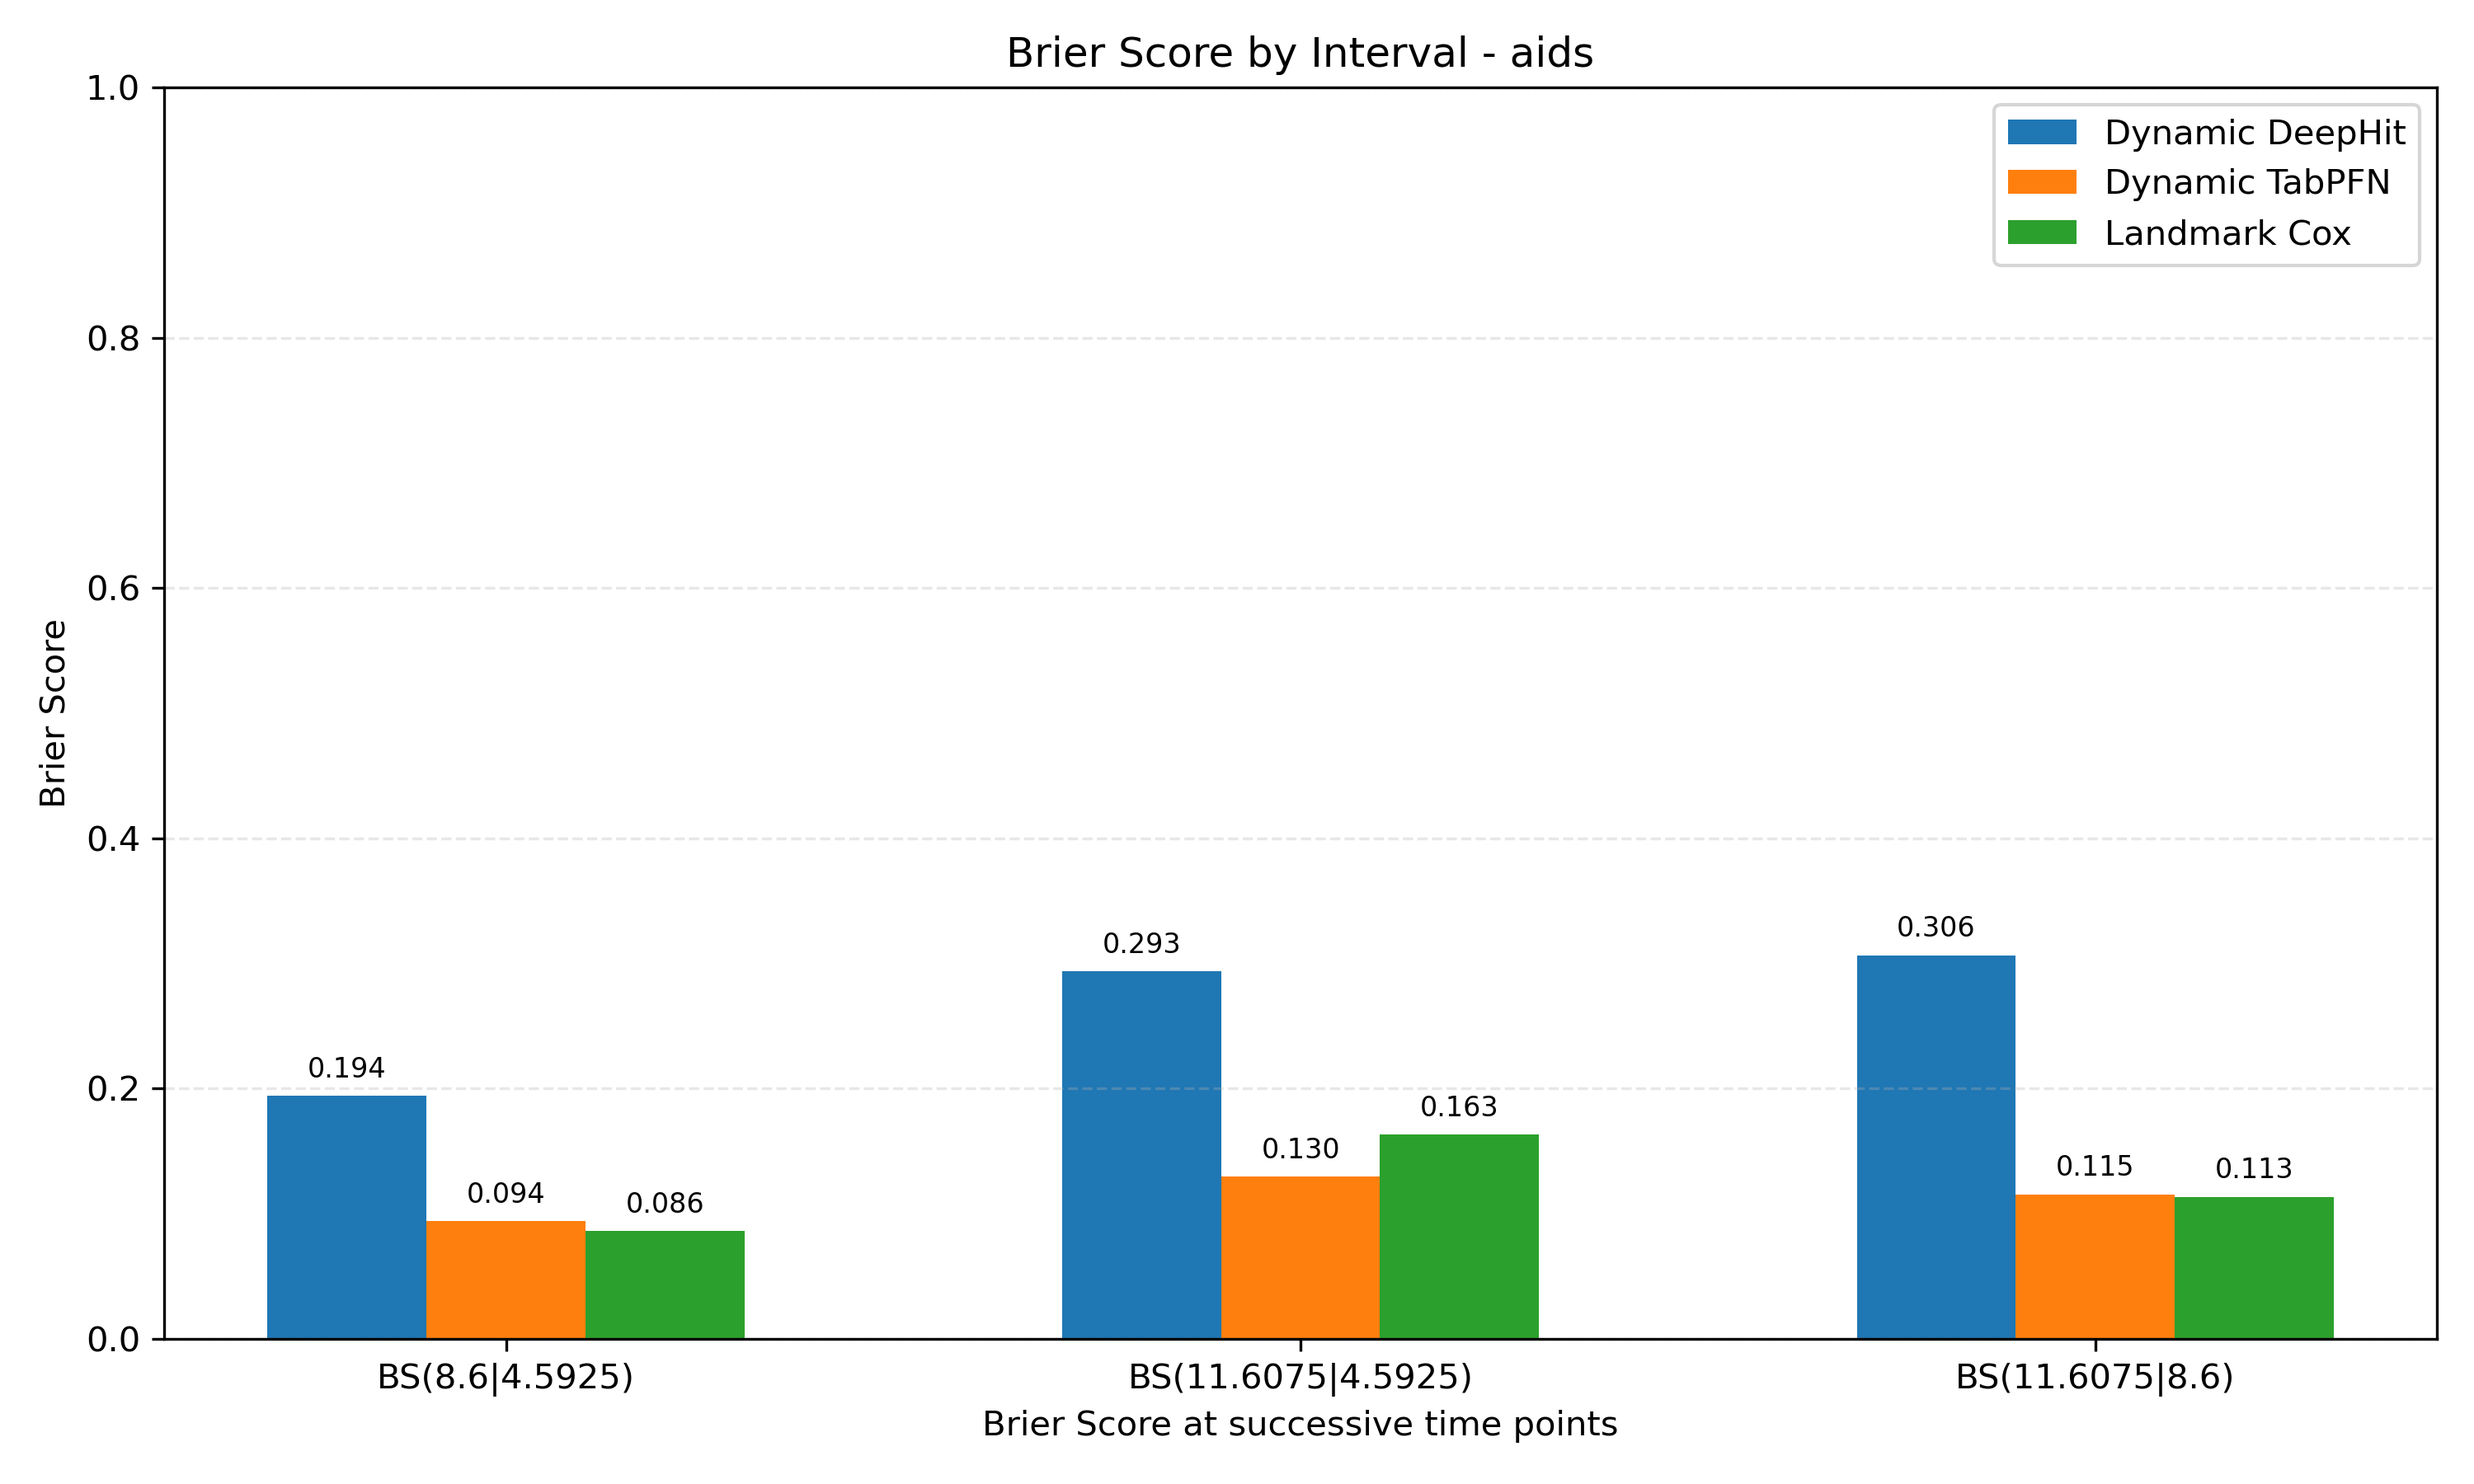
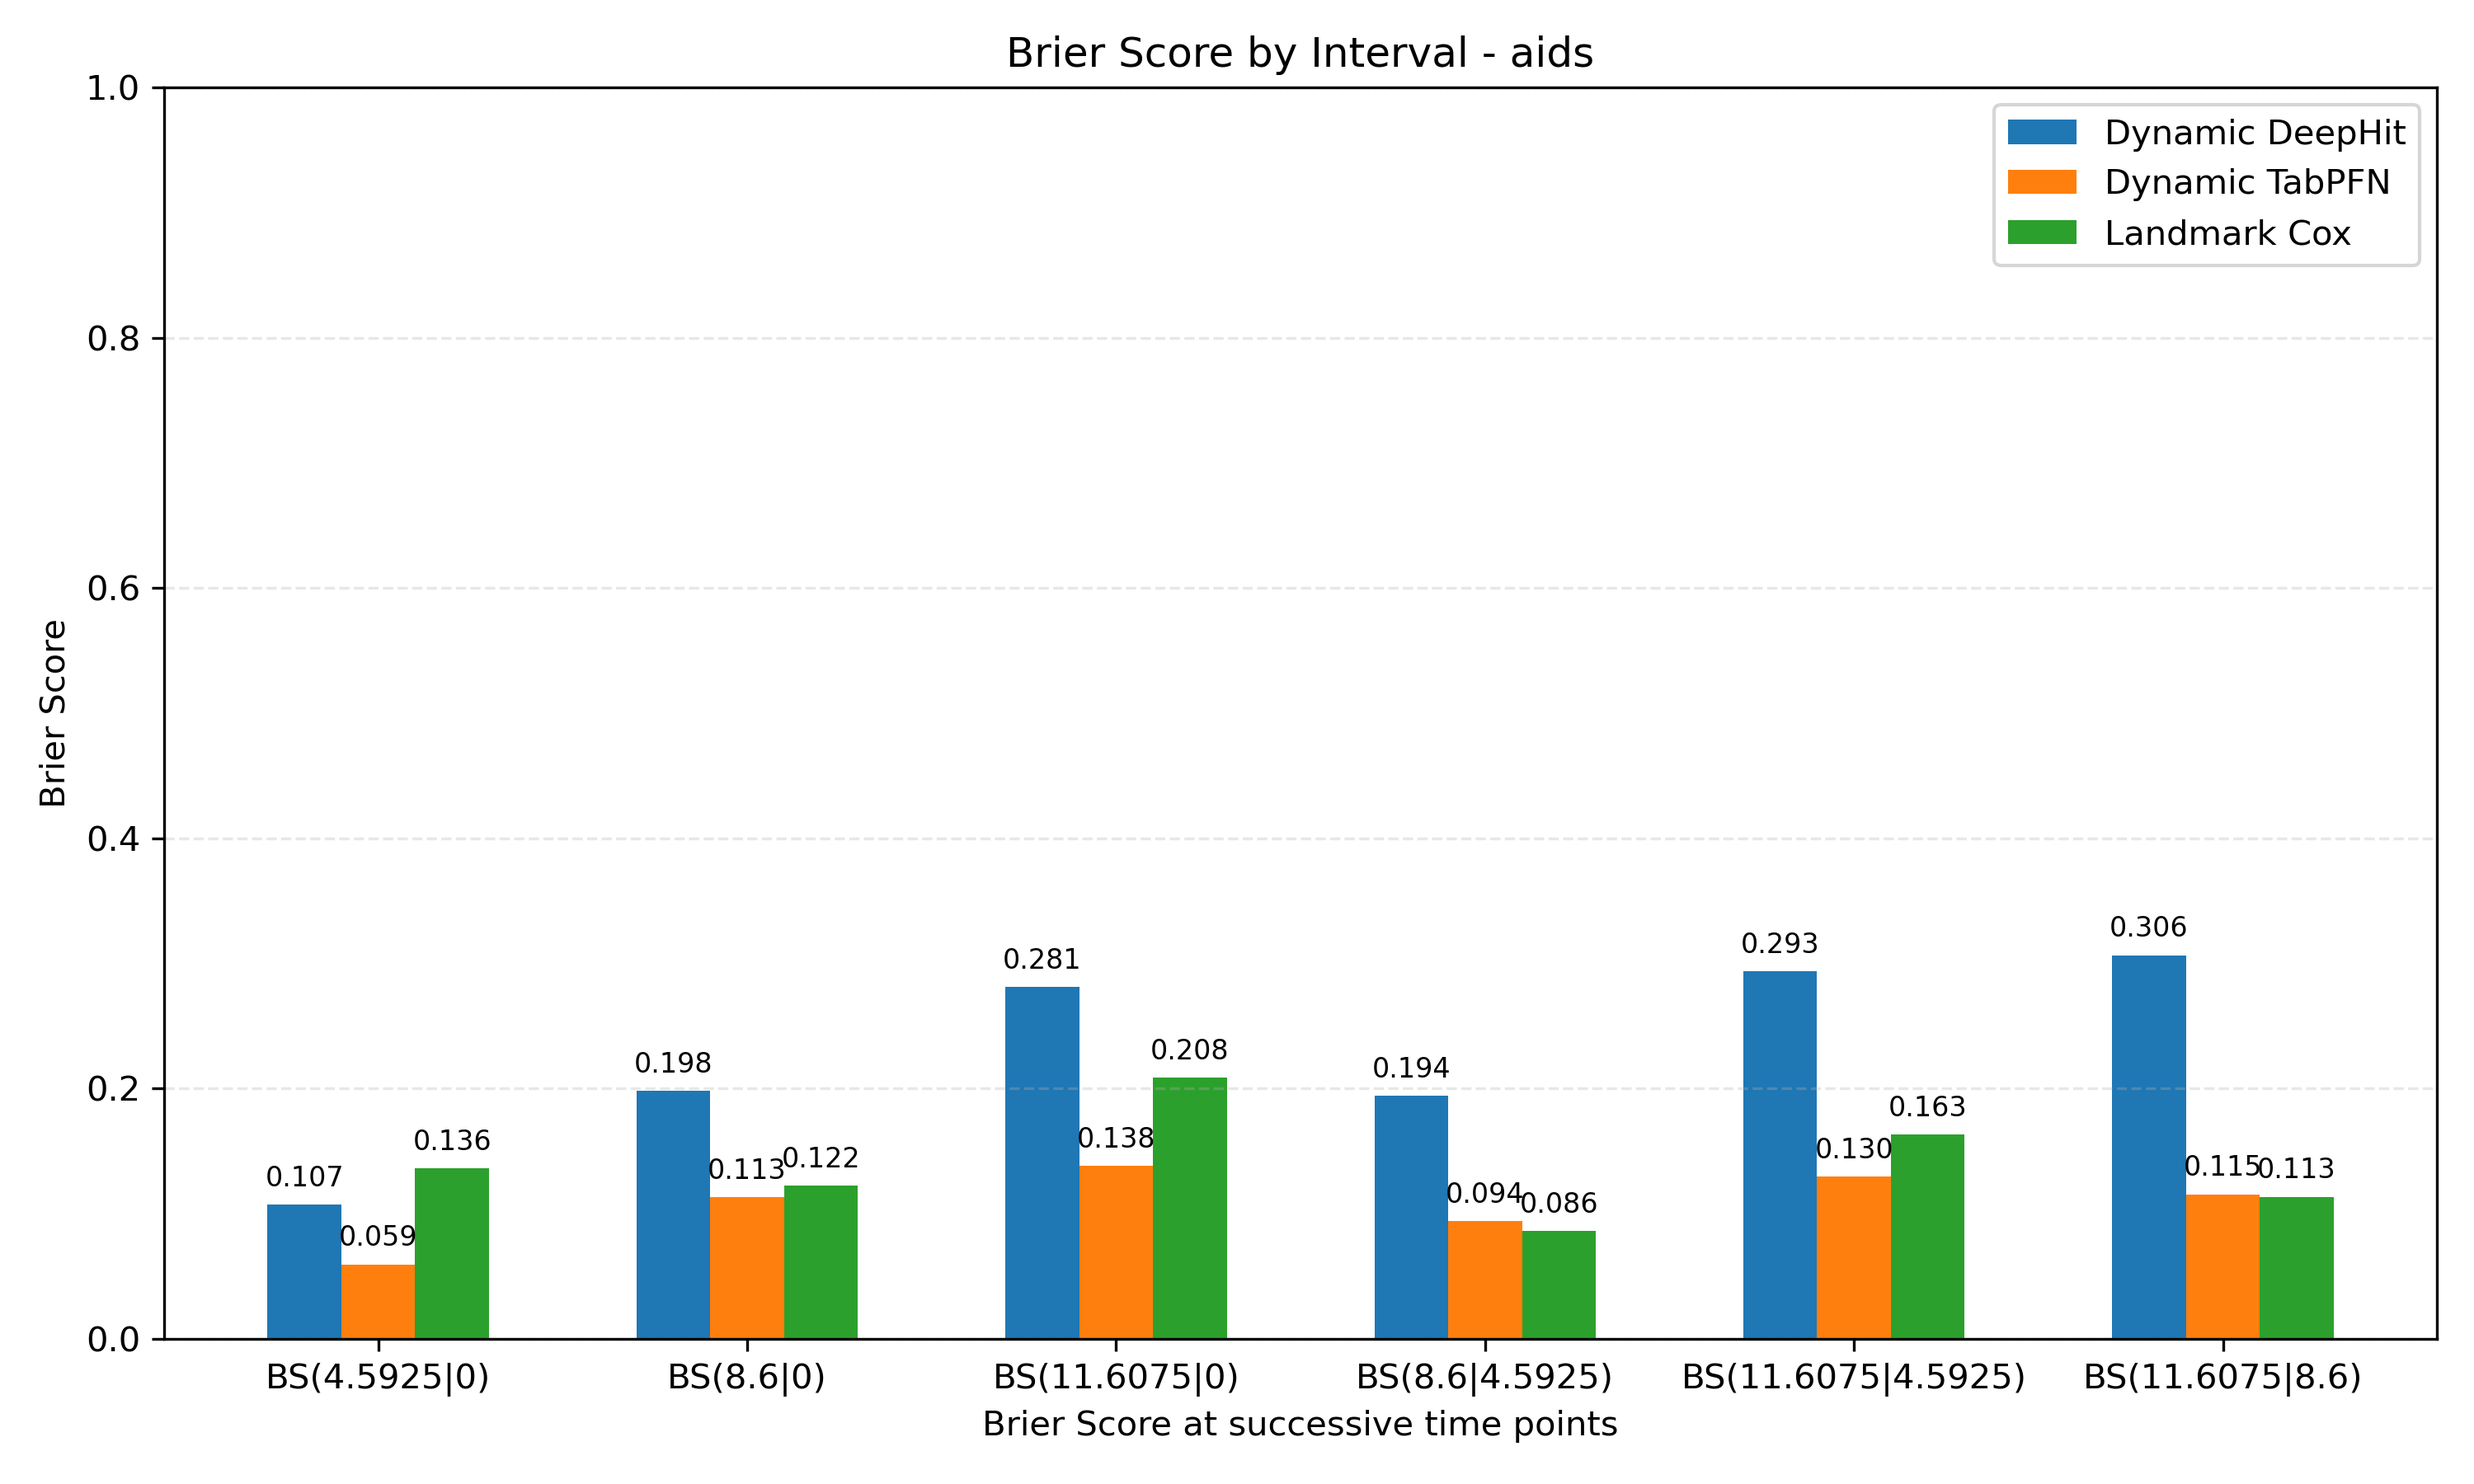
Add tau_0=0

Changed region(s): [[0.682, 0.6222, 0.961, 0.9333], [0.403, 0.6222, 0.651, 0.9333], [0.093, 0.7156, 0.372, 0.9333]]

diff --git a/metrics.py b/metrics.py
@@ -364,9 +364,22 @@ for model_name, pred_path in models:
             print(f"Not enough τ for dataset {dname}. Need ≥ 3.")
             continue
 
+        # Add τ₀ = 0 as the initial landmark
+        τ0 = 0.0
         τ1, τ2, τ3 = taus[:3]
 
         # ----- Brier -----
+        # From τ₀=0: BS(τ₁|0), BS(τ₂|0), BS(τ₃|0)
+        times_b0, bs_0 = dynamic_brier(
+            survival_train=y_train,
+            survival_test=y_test,
+            pids_test=pids_test,
+            pred_df=pred_df_ds,
+            tau_landmark=τ0,
+            eval_times=[τ1, τ2, τ3],
+        )
+        
+        # From τ₁: BS(τ₂|τ₁), BS(τ₃|τ₁)
         times_b1, bs_1 = dynamic_brier(
             survival_train=y_train,
             survival_test=y_test,
@@ -375,6 +388,8 @@ for model_name, pred_path in models:
             tau_landmark=τ1,
             eval_times=[τ2, τ3],
         )
+        
+        # From τ₂: BS(τ₃|τ₂)
         times_b2, bs_2 = dynamic_brier(
             survival_train=y_train,
             survival_test=y_test,
@@ -384,17 +399,42 @@ for model_name, pred_path in models:
             eval_times=[τ3],
         )
 
+        # Store Brier scores from τ₀
+        if bs_0.size > 0:
+            rows.append({"model": model_name, "dataset": dname, "metric": "brier",
+                         "tau_start": τ0, "tau_end": τ1, "value": bs_0[0]})
+        if bs_0.size > 1:
+            rows.append({"model": model_name, "dataset": dname, "metric": "brier",
+                         "tau_start": τ0, "tau_end": τ2, "value": bs_0[1]})
+        if bs_0.size > 2:
+            rows.append({"model": model_name, "dataset": dname, "metric": "brier",
+                         "tau_start": τ0, "tau_end": τ3, "value": bs_0[2]})
+        
+        # Store Brier scores from τ₁
         if bs_1.size > 0:
             rows.append({"model": model_name, "dataset": dname, "metric": "brier",
                          "tau_start": τ1, "tau_end": τ2, "value": bs_1[0]})
         if bs_1.size > 1:
             rows.append({"model": model_name, "dataset": dname, "metric": "brier",
                          "tau_start": τ1, "tau_end": τ3, "value": bs_1[1]})
+        
+        # Store Brier scores from τ₂
         if bs_2.size > 0:
             rows.append({"model": model_name, "dataset": dname, "metric": "brier",
                          "tau_start": τ2, "tau_end": τ3, "value": bs_2[0]})
 
         # ----- AUC -----
+        # From τ₀=0: AUC(τ₁|0), AUC(τ₂|0), AUC(τ₃|0)
+        times_a0, auc_0 = dynamic_auc(
+            survival_train=y_train,
+            survival_test=y_test,
+            pids_test=pids_test,
+            pred_df=pred_df_ds,
+            tau_landmark=τ0,
+            eval_times=[τ1, τ2, τ3],
+        )
+        
+        # From τ₁: AUC(τ₂|τ₁), AUC(τ₃|τ₁)
         times_a1, auc_1 = dynamic_auc(
             survival_train=y_train,
             survival_test=y_test,
@@ -403,6 +443,8 @@ for model_name, pred_path in models:
             tau_landmark=τ1,
             eval_times=[τ2, τ3],
         )
+        
+        # From τ₂: AUC(τ₃|τ₂)
         times_a2, auc_2 = dynamic_auc(
             survival_train=y_train,
             survival_test=y_test,
@@ -412,17 +454,32 @@ for model_name, pred_path in models:
             eval_times=[τ3],
         )
 
+        # Store AUC scores from τ₀
+        if auc_0.size > 0:
+            rows.append({"model": model_name, "dataset": dname, "metric": "auc",
+                         "tau_start": τ0, "tau_end": τ1, "value": auc_0[0]})
+        if auc_0.size > 1:
+            rows.append({"model": model_name, "dataset": dname, "metric": "auc",
+                         "tau_start": τ0, "tau_end": τ2, "value": auc_0[1]})
+        if auc_0.size > 2:
+            rows.append({"model": model_name, "dataset": dname, "metric": "auc",
+                         "tau_start": τ0, "tau_end": τ3, "value": auc_0[2]})
+        
+        # Store AUC scores from τ₁
         if auc_1.size > 0:
             rows.append({"model": model_name, "dataset": dname, "metric": "auc",
                          "tau_start": τ1, "tau_end": τ2, "value": auc_1[0]})
         if auc_1.size > 1:
             rows.append({"model": model_name, "dataset": dname, "metric": "auc",
                          "tau_start": τ1, "tau_end": τ3, "value": auc_1[1]})
+        
+        # Store AUC scores from τ₂
         if auc_2.size > 0:
             rows.append({"model": model_name, "dataset": dname, "metric": "auc",
                          "tau_start": τ2, "tau_end": τ3, "value": auc_2[0]})
 
         # ----- Landmark Harrell C(τ_k) -----
+        # NOTE: No C-index at τ₀=0 because there are no risk predictions at t=0
         c_τ1 = dynamic_cindex_landmark(
             survival_train=y_train,
             survival_test=y_test,
@@ -454,6 +511,33 @@ for model_name, pred_path in models:
                      "tau_start": τ3, "tau_end": τ3, "value": c_τ3})
 
         # ----- IPCW C-index: C(t | τ_k) -----
+        # From τ₀=0: C(τ₁|0), C(τ₂|0), C(τ₃|0)
+        c_τ1_given_τ0 = dynamic_cindex_ipcw(
+            survival_train=y_train,
+            survival_test=y_test,
+            pids_test=pids_test,
+            pred_df=pred_df_ds,
+            tau_landmark=τ0,
+            eval_time=τ1,
+        )
+        c_τ2_given_τ0 = dynamic_cindex_ipcw(
+            survival_train=y_train,
+            survival_test=y_test,
+            pids_test=pids_test,
+            pred_df=pred_df_ds,
+            tau_landmark=τ0,
+            eval_time=τ2,
+        )
+        c_τ3_given_τ0 = dynamic_cindex_ipcw(
+            survival_train=y_train,
+            survival_test=y_test,
+            pids_test=pids_test,
+            pred_df=pred_df_ds,
+            tau_landmark=τ0,
+            eval_time=τ3,
+        )
+        
+        # From τ₁: C(τ₂|τ₁), C(τ₃|τ₁)
         c_τ2_given_τ1 = dynamic_cindex_ipcw(
             survival_train=y_train,
             survival_test=y_test,
@@ -462,7 +546,6 @@ for model_name, pred_path in models:
             tau_landmark=τ1,
             eval_time=τ2,
         )
-        
         c_τ3_given_τ1 = dynamic_cindex_ipcw(
             survival_train=y_train,
             survival_test=y_test,
@@ -472,22 +555,34 @@ for model_name, pred_path in models:
             eval_time=τ3,
         )
         
+        # From τ₂: C(τ₃|τ₂)
         c_τ3_given_τ2 = dynamic_cindex_ipcw(
-                survival_train=y_train,
-                survival_test=y_test,
-                pids_test=pids_test,
-                pred_df=pred_df_ds,
-                tau_landmark=τ2,
-                eval_time=τ3,
-            )
+            survival_train=y_train,
+            survival_test=y_test,
+            pids_test=pids_test,
+            pred_df=pred_df_ds,
+            tau_landmark=τ2,
+            eval_time=τ3,
+        )
 
-        # Store results with tau_start = τ, tau_end = t
+        # Store IPCW C-index from τ₀
+        rows.append({"model": model_name, "dataset": dname, "metric": "cindex_ipcw",
+                     "tau_start": τ0, "tau_end": τ1, "value": c_τ1_given_τ0})
+        rows.append({"model": model_name, "dataset": dname, "metric": "cindex_ipcw",
+                     "tau_start": τ0, "tau_end": τ2, "value": c_τ2_given_τ0})
+        rows.append({"model": model_name, "dataset": dname, "metric": "cindex_ipcw",
+                     "tau_start": τ0, "tau_end": τ3, "value": c_τ3_given_τ0})
+        
+        # Store IPCW C-index from τ₁
         rows.append({"model": model_name, "dataset": dname, "metric": "cindex_ipcw",
                      "tau_start": τ1, "tau_end": τ2, "value": c_τ2_given_τ1})
         rows.append({"model": model_name, "dataset": dname, "metric": "cindex_ipcw",
                      "tau_start": τ1, "tau_end": τ3, "value": c_τ3_given_τ1})
+        
+        # Store IPCW C-index from τ₂
         rows.append({"model": model_name, "dataset": dname, "metric": "cindex_ipcw",
                      "tau_start": τ2, "tau_end": τ3, "value": c_τ3_given_τ2})
+
 
 # -----------------------------------------------------------
 # 7. Save final results
